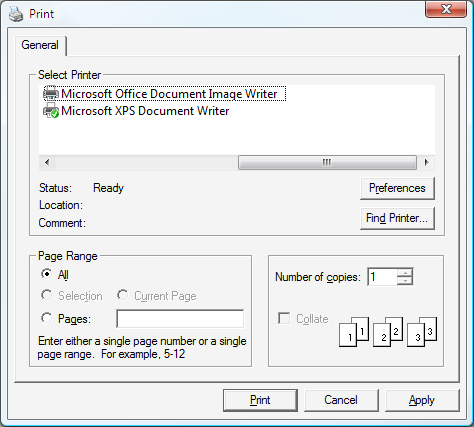
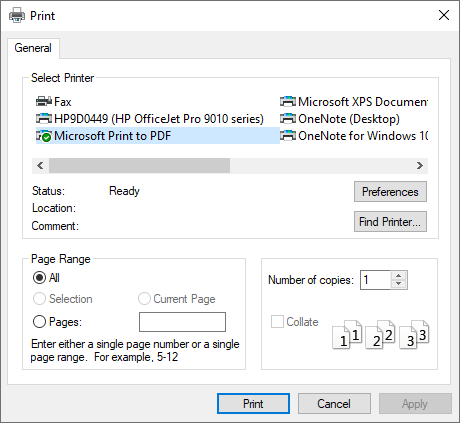
Add system dialogs

Changed region(s): [[0.0, 0.0, 1.0, 1.0]]

diff --git a/dotnet-desktop-guide/net/wpf/windows/snippets/dialog-boxes-overview/vb/Window1.xaml b/dotnet-desktop-guide/net/wpf/windows/snippets/dialog-boxes-overview/vb/Window1.xaml
@@ -8,5 +8,8 @@
         Title="Names" Height="180" Width="260">
     <StackPanel>
         <Button Click="Button_Click">Message Box</Button>
+        <Button Click="Save_Click">Save file</Button>
+        <Button Click="Open_Click">Open file</Button>
+        <Button Click="Print_Click">Print</Button>
     </StackPanel>
 </Window>

diff --git a/dotnet-desktop-guide/net/wpf/windows/snippets/dialog-boxes-overview/csharp/Window1.xaml b/dotnet-desktop-guide/net/wpf/windows/snippets/dialog-boxes-overview/csharp/Window1.xaml
@@ -8,7 +8,9 @@
 
     <StackPanel>
         <Button Click="Button_Click">Message Box</Button>
-        
+        <Button Click="Save_Click">Save file</Button>
+        <Button Click="Open_Click">Open file</Button>
+        <Button Click="Print_Click">Print</Button>
     </StackPanel>
 
 </Window>

diff --git a/dotnet-desktop-guide/net/wpf/windows/snippets/dialog-boxes-overview/csharp/Window1.xaml.cs b/dotnet-desktop-guide/net/wpf/windows/snippets/dialog-boxes-overview/csharp/Window1.xaml.cs
@@ -11,29 +11,91 @@ namespace WindowsOverview
 
         private void Button_Click(object sender, RoutedEventArgs e)
         {
-            // <YesNoCancel>
+            //<YesNoCancel>
             string messageBoxText = "Do you want to save changes?";
             string caption = "Word Processor";
             MessageBoxButton button = MessageBoxButton.YesNoCancel;
             MessageBoxImage icon = MessageBoxImage.Warning;
             MessageBoxResult result;
 
-            // <MessageBoxShow>
+            //<MessageBoxShow>
             result = MessageBox.Show(messageBoxText, caption, button, icon);
-            // </YesNoCancel>
+            //</YesNoCancel>
 
             switch (result)
             {
                 case MessageBoxResult.Cancel:
+                    // User pressed Cancel
                     break;
                 case MessageBoxResult.Yes:
+                    // User pressed Yes
                     break;
                 case MessageBoxResult.No:
-                    break;
-                default:
+                    // User pressed No
                     break;
             }
-            // </MessageBoxShow>
+            //</MessageBoxShow>
+        }
+
+        private void Save_Click(object sender, RoutedEventArgs e)
+        {
+            //<SaveFile>
+            // Configure save file dialog box
+            var dialog = new Microsoft.Win32.SaveFileDialog();
+            dialog.FileName = "Document"; // Default file name
+            dialog.DefaultExt = ".txt"; // Default file extension
+            dialog.Filter = "Text documents (.txt)|*.txt"; // Filter files by extension
+
+            // Show save file dialog box
+            bool? result = dialog.ShowDialog();
+
+            // Process save file dialog box results
+            if (result == true)
+            {
+                // Save document
+                string filename = dialog.FileName;
+            }
+            //</SaveFile>
+        }
+
+        private void Open_Click(object sender, RoutedEventArgs e)
+        {
+            //<OpenFile>
+            // Configure open file dialog box
+            var dialog = new Microsoft.Win32.OpenFileDialog();
+            dialog.FileName = "Document"; // Default file name
+            dialog.DefaultExt = ".txt"; // Default file extension
+            dialog.Filter = "Text documents (.txt)|*.txt"; // Filter files by extension
+
+            // Show open file dialog box
+            bool? result = dialog.ShowDialog();
+
+            // Process open file dialog box results
+            if (result == true)
+            {
+                // Open document
+                string filename = dialog.FileName;
+            }
+            //</OpenFile>
+        }
+
+        private void Print_Click(object sender, RoutedEventArgs e)
+        {
+            //<Print>
+            // Configure printer dialog box
+            var dialog = new System.Windows.Controls.PrintDialog();
+            dialog.PageRangeSelection = System.Windows.Controls.PageRangeSelection.AllPages;
+            dialog.UserPageRangeEnabled = true;
+
+            // Show save file dialog box
+            bool? result = dialog.ShowDialog();
+
+            // Process save file dialog box results
+            if (result == true)
+            {
+                // Print document
+            }
+            //</Print>
         }
     }
 }

diff --git a/dotnet-desktop-guide/net/wpf/windows/dialog-boxes-overview.md b/dotnet-desktop-guide/net/wpf/windows/dialog-boxes-overview.md
@@ -36,80 +36,64 @@ A *message box* is a dialog box that can be used to display textual information 
 
 :::image type="content" source="media/dialog-boxes-overview/word-processor-dialog.png" alt-text="Word processor dialog box asking if you want to save the changes to the document before the application closes.":::
 
-To create a message box, you use the <xref:System.Windows.MessageBox> class. <xref:System.Windows.MessageBox> lets you configure the message box text, title, icon, and buttons, using code like the following.
+To create a message box, you use the <xref:System.Windows.MessageBox> class. <xref:System.Windows.MessageBox> lets you configure the message box text, title, icon, and buttons, shown in the following code:
 
 :::code language="csharp" source="snippets/dialog-boxes-overview/csharp/Window1.xaml.cs" id="YesNoCancel":::
 :::code language="vb" source="snippets/dialog-boxes-overview/vb/Window1.xaml.vb" id="YesNoCancel":::
 
-As demonstrated in the previous code, the <xref:System.Windows.MessageBox.Show%2A?displayProperty=nameWithType> method displays the message box. Inspect the user's decision by inspecting the `result` variable:
+The <xref:System.Windows.MessageBox.Show%2A?displayProperty=nameWithType> method displays the message box. Inspect the user's decision by inspecting the `result` variable:
 
 :::code language="csharp" source="snippets/dialog-boxes-overview/csharp/Window1.xaml.cs" id="MessageBoxShow":::
 :::code language="vb" source="snippets/dialog-boxes-overview/vb/Window1.xaml.vb" id="MessageBoxShow":::
 
-To show a message box, you call the `static` method, as demonstrated in the following code.
+For more information on using message boxes, see <xref:System.Windows.MessageBox>, [MessageBox Sample](https://github.com/Microsoft/WPF-Samples/tree/master/Windows/MessageBox), and [Dialog Box Sample](https://github.com/Microsoft/WPF-Samples/tree/master/Windows/DialogBox).
 
- [!code-csharp[DialogBoxesOverviewSnippets#MsgBoxShowCODEBEHIND](~/samples/snippets/csharp/VS_Snippets_Wpf/DialogBoxesOverviewSnippets/CSharp/Window1.xaml.cs#msgboxshowcodebehind)]
- [!code-vb[DialogBoxesOverviewSnippets#MsgBoxShowCODEBEHIND](~/samples/snippets/visualbasic/VS_Snippets_Wpf/DialogBoxesOverviewSnippets/VisualBasic/window1.xaml.vb#msgboxshowcodebehind)]
+For presenting an gathering complex data, a dialog box might be more suitable than a message box. There are two types of dialog boxes, [Common dialog boxes](#common-dialog-boxes) provided by the operating system, and [Custom dialog boxes](#custom-dialog-boxes) created for your application.
 
- When code that shows a message box needs to detect and process the user's decision (which button was pressed), the code can inspect the message box result, as shown in the following code.
-
- [!code-csharp[DialogBoxesOverviewSnippets#MsgBoxShowAndResultCODEBEHIND1](~/samples/snippets/csharp/VS_Snippets_Wpf/DialogBoxesOverviewSnippets/CSharp/Window1.xaml.cs#msgboxshowandresultcodebehind1)]
- [!code-vb[DialogBoxesOverviewSnippets#MsgBoxShowAndResultCODEBEHIND1](~/samples/snippets/visualbasic/VS_Snippets_Wpf/DialogBoxesOverviewSnippets/VisualBasic/window1.xaml.vb#msgboxshowandresultcodebehind1)]
-
- For more information on using message boxes, see <xref:System.Windows.MessageBox>, [MessageBox Sample](https://github.com/Microsoft/WPF-Samples/tree/master/Windows/MessageBox), and [Dialog Box Sample](https://github.com/Microsoft/WPF-Samples/tree/master/Windows/DialogBox).
-
- Although <xref:System.Windows.MessageBox> may offer a simple dialog box user experience, the advantage of using <xref:System.Windows.MessageBox> is that is the only type of window that can be shown by applications that run within a partial trust security sandbox (see [Security](../security-wpf.md)), such as XAML browser applications (XBAPs).
-
- Most dialog boxes display and gather more complex data than the result of a message box, including text, selection (check boxes), mutually exclusive selection (radio buttons), and list selection (list boxes, combo boxes, drop-down list boxes). For these, Windows Presentation Foundation (WPF) provides several common dialog boxes and allows you to create your own dialog boxes, although the use of either is limited to applications running with full trust.
-
-<a name="Common_Dialogs"></a>
 ## Common dialog boxes
- Windows implements a variety of reusable dialog boxes that are common to all applications, including dialog boxes for opening files, saving files, and printing. Since these dialog boxes are implemented by the operating system, they can be shared among all the applications that run on the operating system, which helps user experience consistency; when users are familiar with the use of an operating system-provided dialog box in one application, they don't need to learn how to use that dialog box in other applications. Because these dialog boxes are available to all applications and because they help provide a consistent user experience, they are known as *common dialog boxes*.
 
- Windows Presentation Foundation (WPF) encapsulates the open file, save file, and print common dialog boxes and exposes them as managed classes for you to use in standalone applications. This article provides a brief overview of each.
+Windows implements a variety of reusable dialog boxes that are common to all applications, including dialog boxes for selecting files and printing. Since these dialog boxes are implemented by the operating system, they can be shared among all the applications that run on the operating system, which helps user experience consistency. As a user uses operating system-provided dialog boxes in one application, they don't need to learn how to use that dialog box in other applications. Because these dialog boxes are available to all applications and because they help provide a consistent user experience, they are known as *common dialog boxes*.
 
-<a name="Open_File_Dialog"></a>
+WPF encapsulates the open file, save file, and print common dialog boxes and exposes them as managed classes for you to use in standalone applications. This article provides a brief overview of each.
+
 ### Open File dialog
- The open file dialog box, shown in the following figure, is used by file opening functionality to retrieve the name of a file to open.
 
- ![An Open dialog box showing the location to retrieve the file.](./media/dialog-boxes-overview/open-file-dialog-box.png)
+The open file dialog box, shown in the following figure, is used by file opening functionality to retrieve the name of a file to open.
 
- The common open file dialog box is implemented as the <xref:Microsoft.Win32.OpenFileDialog> class and is located in the <xref:Microsoft.Win32> namespace. The following code shows how to create, configure, and show one, and how to process the result.
+:::image type="content" source="media/dialog-boxes-overview/open-file-dialog-box.png" alt-text="An Open dialog box showing the location to retrieve the fileshown from a WPF application.":::
 
- [!code-csharp[DialogBoxesOverviewSnippets#OpenFileDialogBoxCODEBEHIND](~/samples/snippets/csharp/VS_Snippets_Wpf/DialogBoxesOverviewSnippets/CSharp/Window1.xaml.cs#openfiledialogboxcodebehind)]
- [!code-vb[DialogBoxesOverviewSnippets#OpenFileDialogBoxCODEBEHIND](~/samples/snippets/visualbasic/VS_Snippets_Wpf/DialogBoxesOverviewSnippets/VisualBasic/window1.xaml.vb#openfiledialogboxcodebehind)]
+The common open file dialog box is implemented as the <xref:Microsoft.Win32.OpenFileDialog> class and is located in the <xref:Microsoft.Win32> namespace. The following code shows how to create, configure, and show one, and how to process the result.
 
- For more information on the open file dialog box, see <xref:Microsoft.Win32.OpenFileDialog?displayProperty=nameWithType>.
+:::code language="csharp" source="snippets/dialog-boxes-overview/csharp/Window1.xaml.cs" id="OpenFile":::
+:::code language="vb" source="snippets/dialog-boxes-overview/vb/Window1.xaml.vb" id="OpenFile":::
 
-> [!NOTE]
-> <xref:Microsoft.Win32.OpenFileDialog> can be used to safely retrieve file names by applications running with partial trust (see [Security](../security-wpf.md)).
+For or more information on the open file dialog box, see <xref:Microsoft.Win32.OpenFileDialog?displayProperty=nameWithType>.
 
-<a name="Save_File_Dialog"></a>
 ### Save File dialog box
- The save file dialog box, shown in the following figure, is used by file saving functionality to retrieve the name of a file to save.
 
- ![A Save As dialog box showing the location to save the file.](./media/dialog-boxes-overview/save-file-dialog-box.png)
+The save file dialog box, shown in the following figure, is used by file saving functionality to retrieve the name of a file to save.
 
- The common save file dialog box is implemented as the <xref:Microsoft.Win32.SaveFileDialog> class, and is located in the <xref:Microsoft.Win32> namespace. The following code shows how to create, configure, and show one, and how to process the result.
+:::image type="content" source="media/dialog-boxes-overview/save-file-dialog-box.png" alt-text="A Save As dialog box showing the location to save the file shown from a WPF application.":::
 
- [!code-csharp[DialogBoxesOverviewSnippets#SaveFileDialogBoxCODEBEHIND](~/samples/snippets/csharp/VS_Snippets_Wpf/DialogBoxesOverviewSnippets/CSharp/Window1.xaml.cs#savefiledialogboxcodebehind)]
- [!code-vb[DialogBoxesOverviewSnippets#SaveFileDialogBoxCODEBEHIND](~/samples/snippets/visualbasic/VS_Snippets_Wpf/DialogBoxesOverviewSnippets/VisualBasic/window1.xaml.vb#savefiledialogboxcodebehind)]
+The common save file dialog box is implemented as the <xref:Microsoft.Win32.SaveFileDialog> class, and is located in the <xref:Microsoft.Win32> namespace. The following code shows how to create, configure, and show one, and how to process the result.
 
- For more information on the save file dialog box, see <xref:Microsoft.Win32.SaveFileDialog?displayProperty=nameWithType>.
+:::code language="csharp" source="snippets/dialog-boxes-overview/csharp/Window1.xaml.cs" id="SaveFile":::
+:::code language="vb" source="snippets/dialog-boxes-overview/vb/Window1.xaml.vb" id="SaveFile":::
 
-<a name="Print_Dialog"></a>
+For more information on the save file dialog box, see <xref:Microsoft.Win32.SaveFileDialog?displayProperty=nameWithType>.
+
 ### Print dialog box
 
 The print dialog box, shown in the following figure, is used by printing functionality to choose and configure the printer that a user would like to print data to.
 
-![Screenshot that shows a Print dialog box.](./media/dialog-boxes-overview/print-data-dialog-box.png)
+:::image type="content" source="media/dialog-boxes-overview/print-data-dialog-box.png" alt-text="A print dialog box shown from a WPF application.":::
 
 The common print dialog box is implemented as the <xref:System.Windows.Controls.PrintDialog> class, and is located in the <xref:System.Windows.Controls> namespace. The following code shows how to create, configure, and show one.
 
- [!code-csharp[DialogBoxesOverviewSnippets#PrintDialogBoxCODEBEHIND](~/samples/snippets/csharp/VS_Snippets_Wpf/DialogBoxesOverviewSnippets/CSharp/Window1.xaml.cs#printdialogboxcodebehind)]
- [!code-vb[DialogBoxesOverviewSnippets#PrintDialogBoxCODEBEHIND](~/samples/snippets/visualbasic/VS_Snippets_Wpf/DialogBoxesOverviewSnippets/VisualBasic/window1.xaml.vb#printdialogboxcodebehind)]
+:::code language="csharp" source="snippets/dialog-boxes-overview/csharp/Window1.xaml.cs" id="Print":::
+:::code language="vb" source="snippets/dialog-boxes-overview/vb/Window1.xaml.vb" id="Print":::
 
- For more information on the print dialog box, see <xref:System.Windows.Controls.PrintDialog?displayProperty=nameWithType>. For detailed discussion of printing in WPF, see [Printing Overview](../advanced/printing-overview.md).
+For more information on the print dialog box, see <xref:System.Windows.Controls.PrintDialog?displayProperty=nameWithType>. For detailed discussion of printing in WPF, see [Printing overview](../advanced/printing-overview.md).
 
 <a name="Custom_Dialog_Boxes"></a>
 ## Custom dialog boxes
